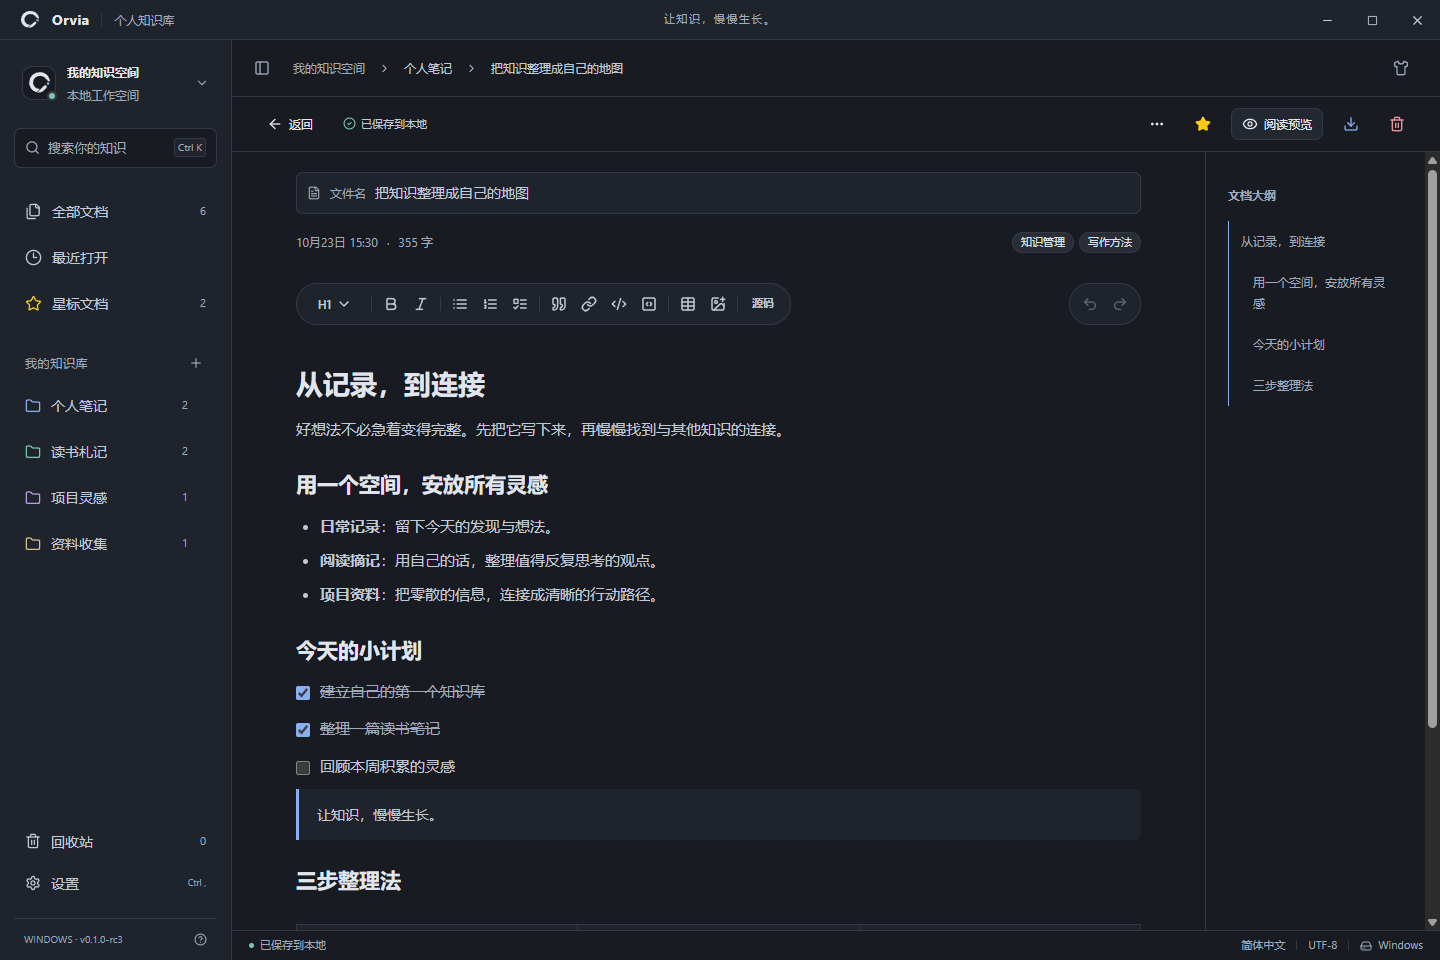
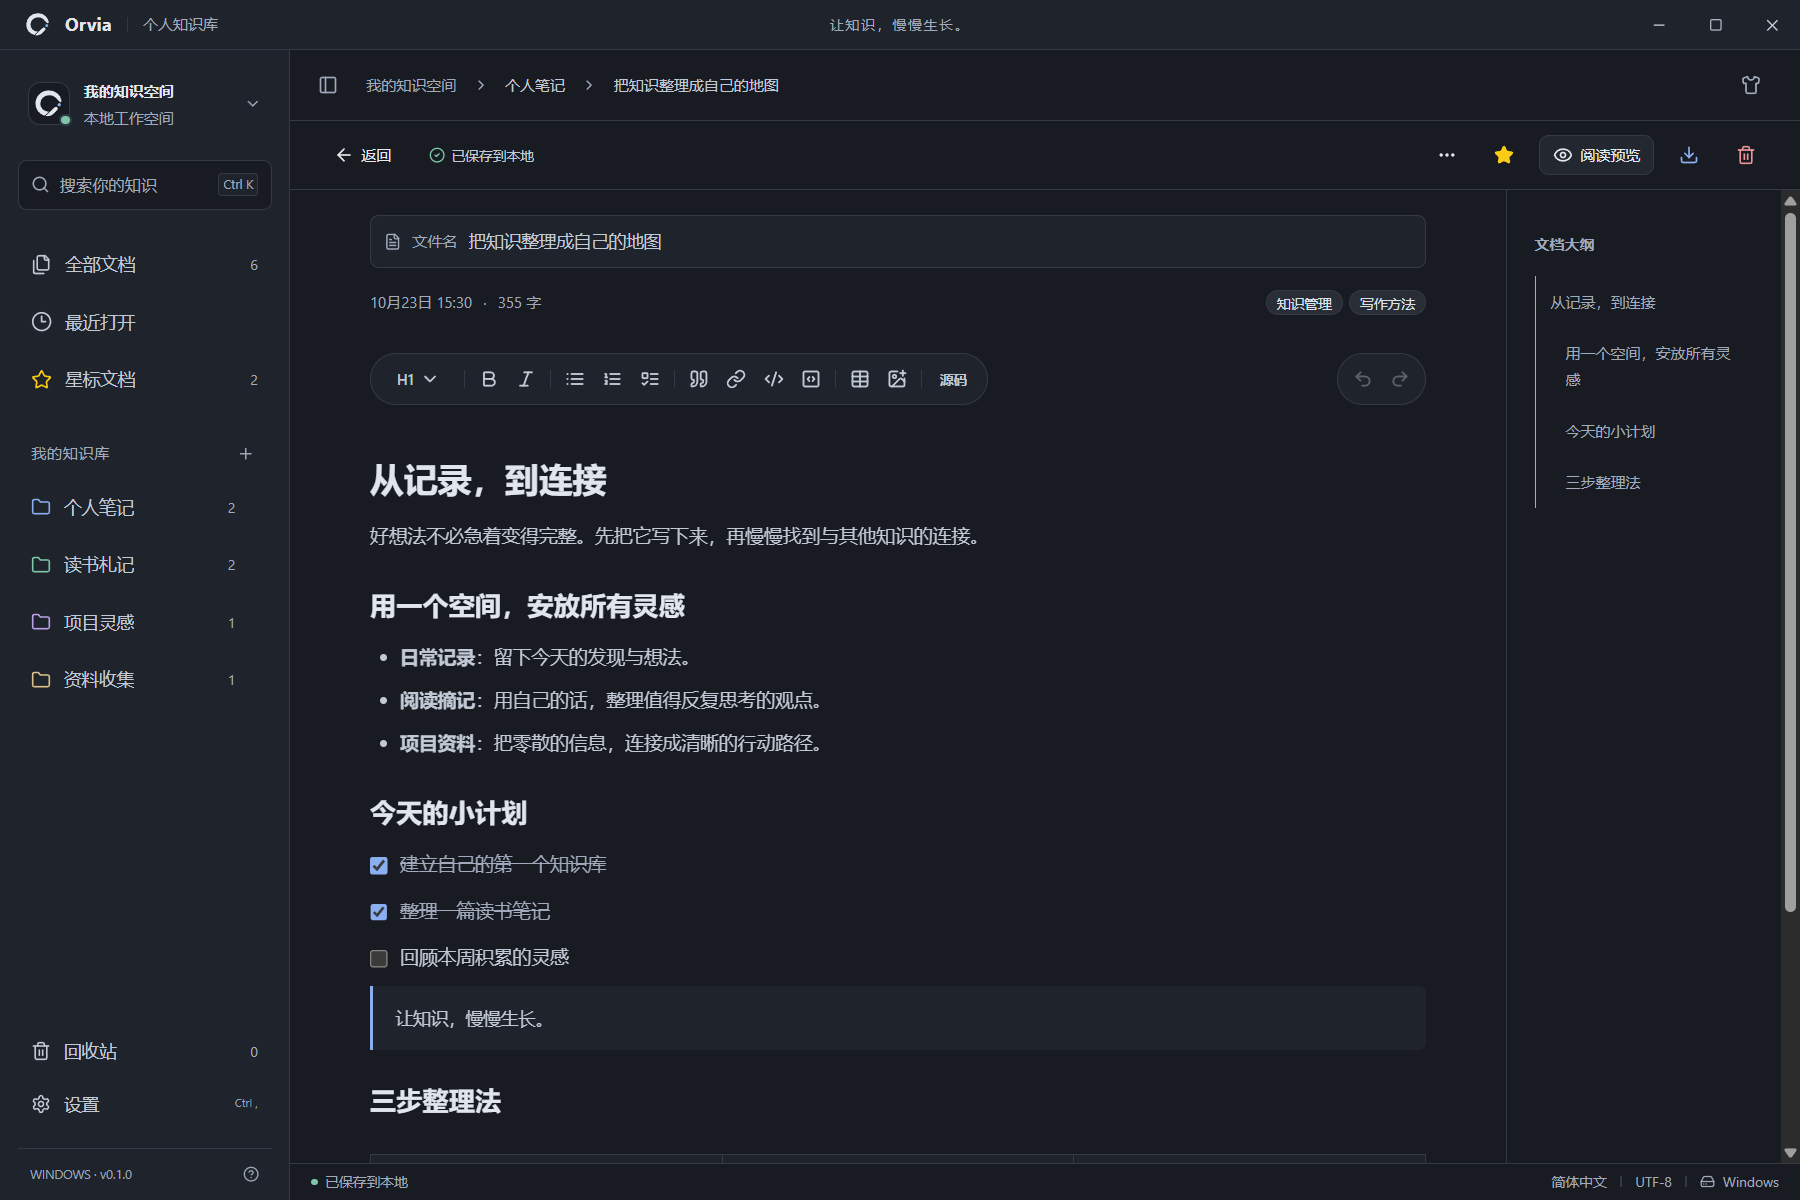
Verify exact stable release bundle and refresh native screenshots

diff --git a/scripts/release-manifest.test.ts b/scripts/release-manifest.test.ts
@@ -1,0 +1,68 @@
+import { afterEach, expect, test } from "vitest";
+import fs from "node:fs";
+import os from "node:os";
+import path from "node:path";
+import { spawnSync } from "node:child_process";
+
+const roots: string[] = [];
+afterEach(() =>
+  roots
+    .splice(0)
+    .forEach((root) => fs.rmSync(root, { recursive: true, force: true })),
+);
+function fixture(stable: boolean) {
+  const root = fs.mkdtempSync(path.join(os.tmpdir(), "orvia-manifest-test-"));
+  roots.push(root);
+  fs.mkdirSync(path.join(root, "src-tauri/target/release/bundle/nsis"), {
+    recursive: true,
+  });
+  fs.mkdirSync(path.join(root, "docs"));
+  fs.writeFileSync(
+    path.join(root, "package.json"),
+    JSON.stringify({ version: "0.1.0" }),
+  );
+  fs.writeFileSync(path.join(root, "docs/RELEASE-v0.1.0.md"), "Stable notes");
+  for (const version of stable
+    ? ["0.1.0-beta1", "0.1.0-rc3", "0.1.0"]
+    : ["0.1.0-beta1", "0.1.0-rc3"]) {
+    const file = path.join(
+      root,
+      `src-tauri/target/release/bundle/nsis/Orvia_${version}_x64-setup.exe`,
+    );
+    fs.writeFileSync(file, version);
+    fs.writeFileSync(file + ".sig", "signature-" + version);
+  }
+  const result = spawnSync(
+    process.execPath,
+    [path.resolve("scripts/release-manifest.mjs")],
+    { cwd: root, encoding: "utf8" },
+  );
+  return { root, result };
+}
+test("stable manifest selects the exact installer when beta and rc bundles coexist", () => {
+  const { root, result } = fixture(true);
+  expect(result.status).toBe(0);
+  const manifest = JSON.parse(
+    fs.readFileSync(path.join(root, "updates/windows/latest.json"), "utf8"),
+  );
+  expect(manifest.platforms["windows-x86_64"].url).toMatch(
+    /Orvia_0\.1\.0_x64-setup\.exe$/,
+  );
+  expect(manifest.platforms["windows-x86_64"].signature).toBe(
+    "signature-0.1.0",
+  );
+  expect(
+    fs.readFileSync(
+      path.join(root, "release/v0.1.0/Orvia_0.1.0_x64-setup.exe"),
+      "utf8",
+    ),
+  ).toBe("0.1.0");
+});
+test("stable staging fails without the stable bundle instead of publishing a prerelease", () => {
+  const { root, result } = fixture(false);
+  expect(result.status).not.toBe(0);
+  expect(result.stderr).toContain("Build the installer first");
+  expect(fs.existsSync(path.join(root, "updates/windows/latest.json"))).toBe(
+    false,
+  );
+});

diff --git a/docs/V0.1.0-VALIDATION.md b/docs/V0.1.0-VALIDATION.md
@@ -6,5 +6,14 @@
 
 ## 本地回归
 
-- 47 项单元测试、5 项 Rust/SQLite 测试、19 条 Playwright 端到端流程全部通过。
+- 49 项单元测试、5 项 Rust/SQLite 测试、19 条 Playwright 端到端流程全部通过。
 - 覆盖 Markdown 编辑与导入导出、中文输入、长文档、主题与三语、批量操作、单篇右键移动、删除及移动二次确认、自动更新与设置持久化。
+
+## 安装包与发布文件
+
+- Orvia_0.1.0_x64-setup.exe：7,058,204 字节。
+- SHA-256：96b76dc97c3c00f49a535e2bfefa4d82bd440c134e042f1acbeb90bfe0837eaf。
+- 原有 Ed25519 公钥验证安装包签名与可信注释通过，篡改包被拒绝；7 个 PE 图标和窗口 RGBA 资源检查通过。
+- 四个 Release 文件的远端 SHA-256 与本地一致，公开安装包 HTTP 200；发布标记为正式版而非预发布。
+- 修复发布整理脚本的版本子串误匹配：必须精确选择对应版本安装器。新增测试覆盖 beta、rc 与正式包并存，以及正式包缺失时拒绝生成清单。
+- README 的五张截图已从正式版原生 Windows 客户端重新采集，使用独立演示数据与 WebView2 配置，不触碰个人知识库。
